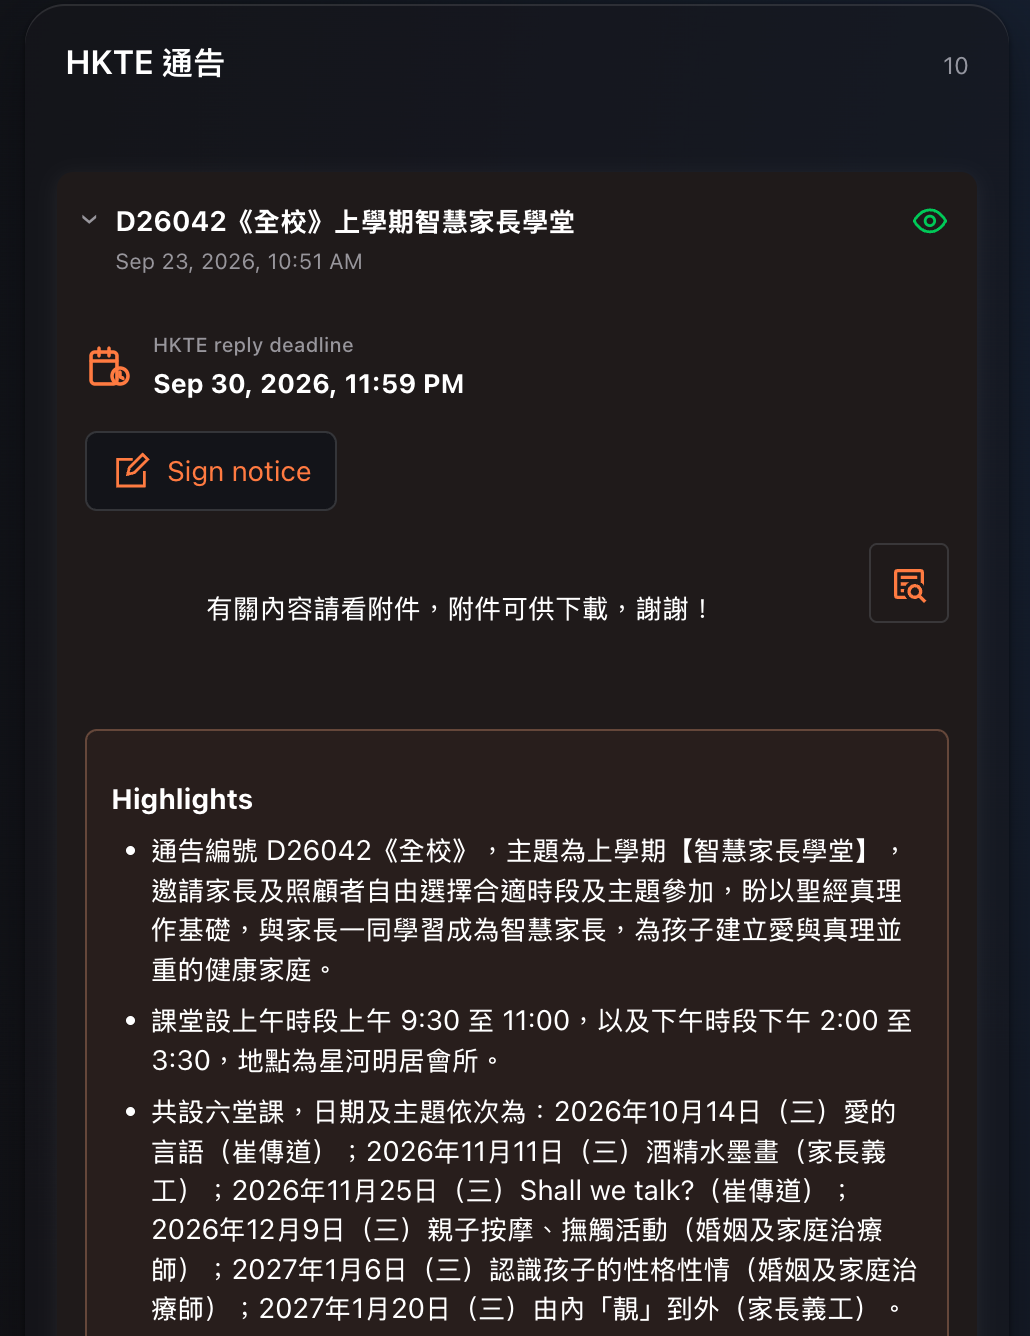
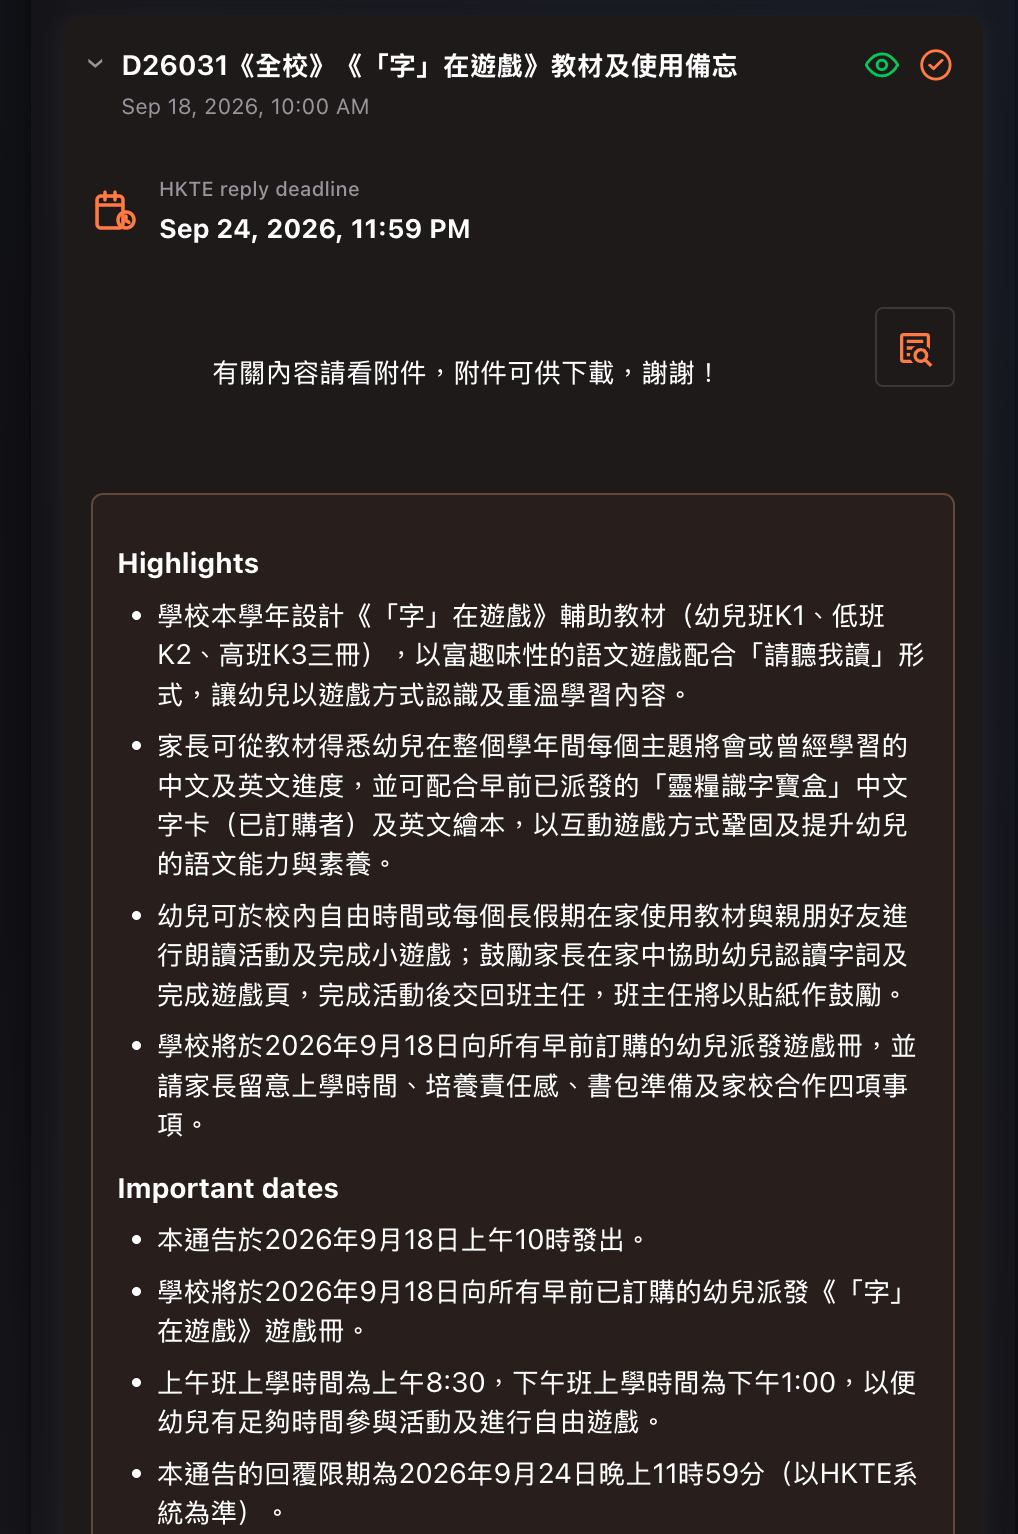
Update expanded notice screenshot

diff --git a/README.md b/README.md
@@ -70,10 +70,9 @@ The companion card shows the latest notices and their status:
 
 ![HKTE notices card showing notice titles, issue dates and status icons](screenshots/notice-list.png)
 
-Expand a notice to see its reply deadline, signing action, content and AI
-highlights:
+Expand a notice to see its reply deadline, content and AI highlights:
 
-![Expanded HKTE notice showing the reply deadline, signing action and AI highlights](screenshots/notice-expanded.png)
+![Expanded HKTE notice showing the reply deadline, content and AI highlights](screenshots/notice-expanded.png)
 
 As a dependency-free fallback, add a **Manual** card using
 [examples/notices-card.yaml](examples/notices-card.yaml). It automatically
